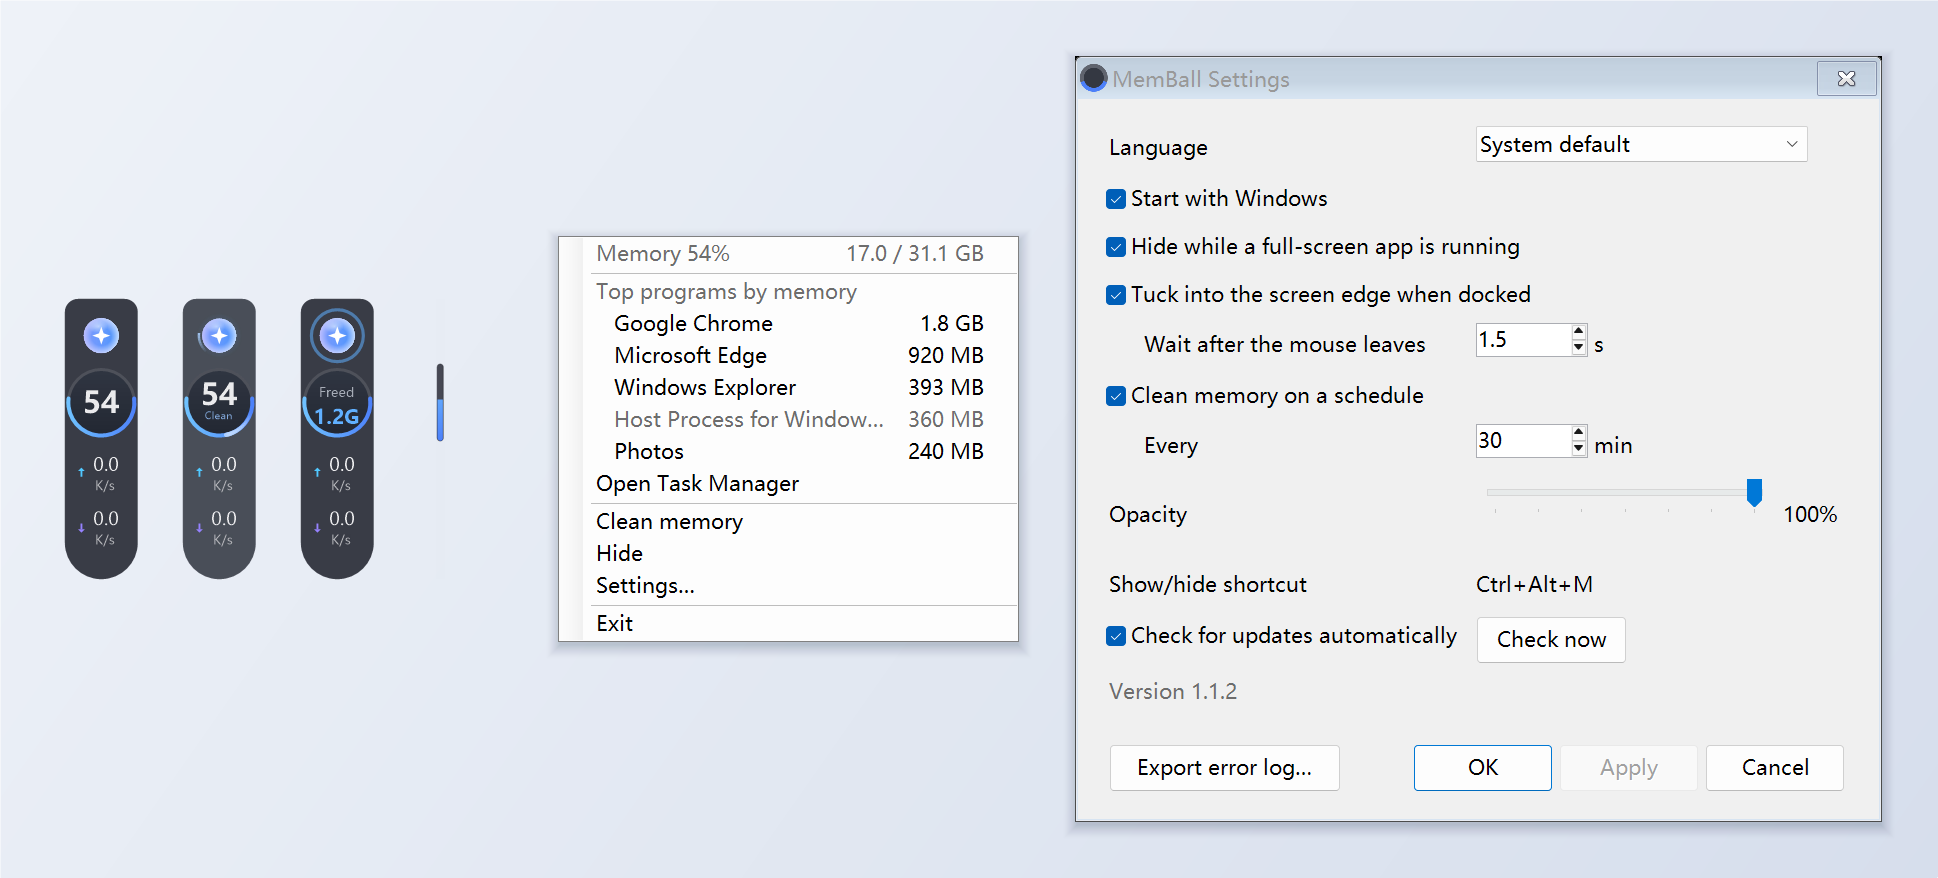
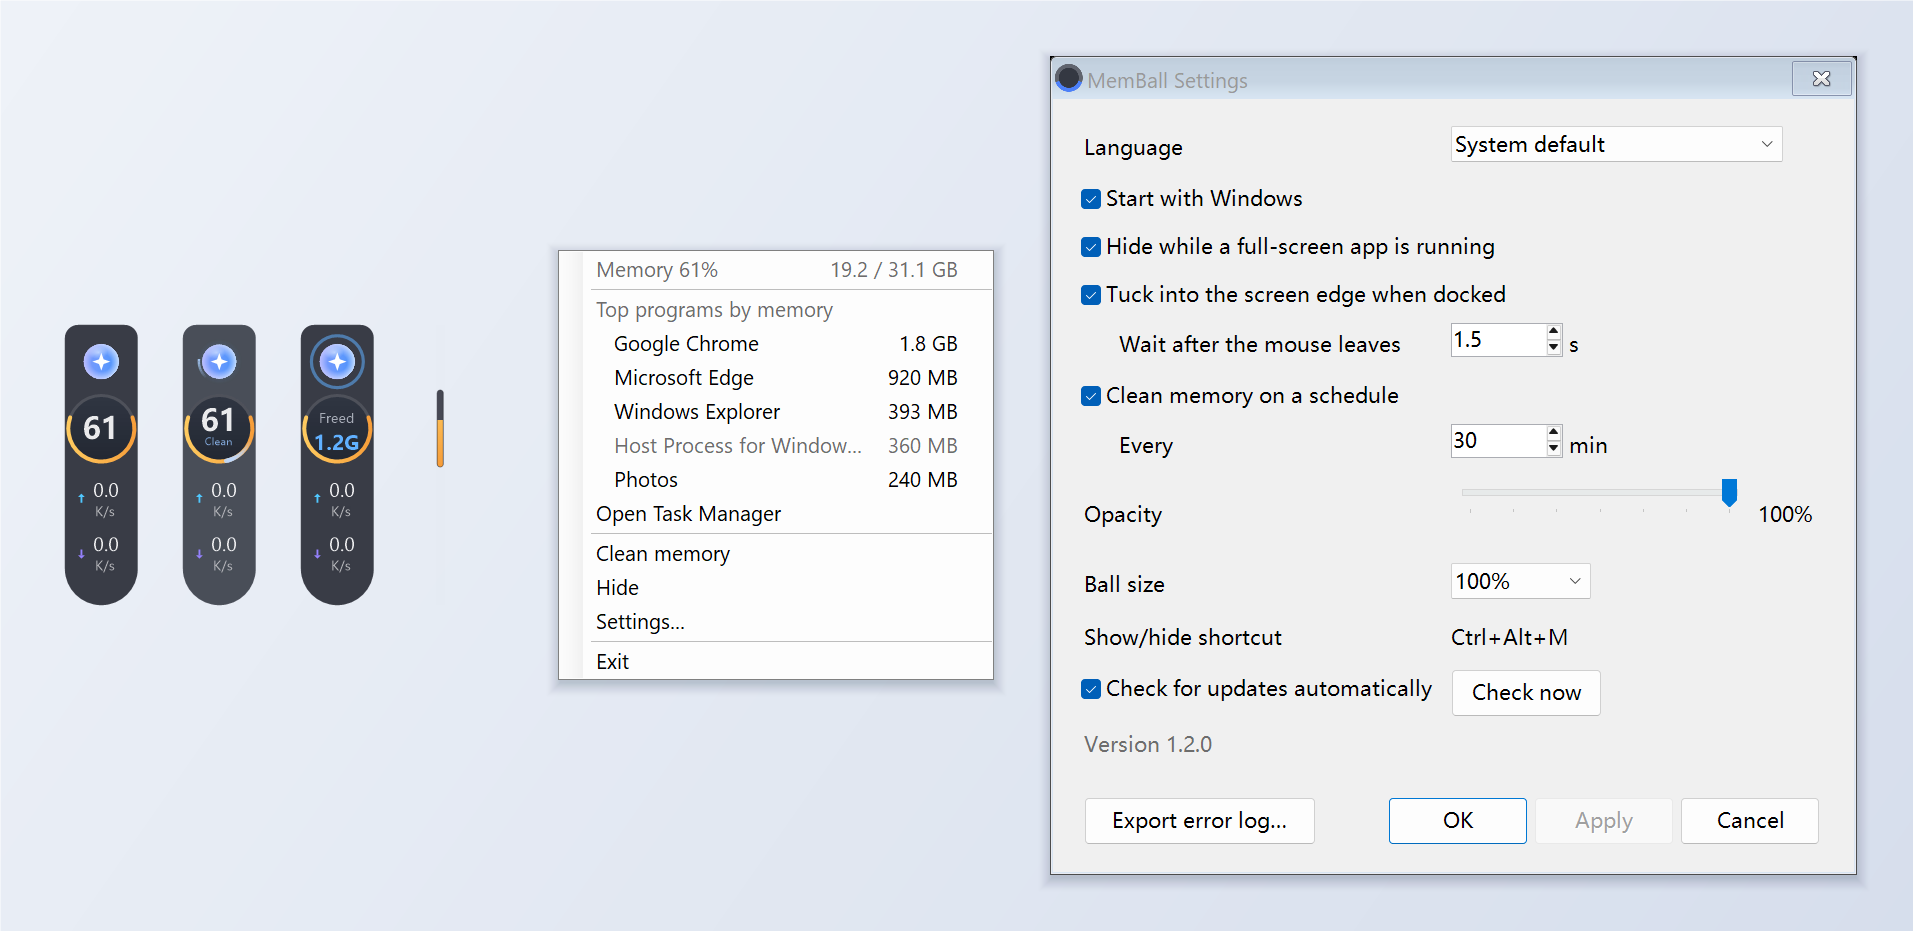
README: ball size and portable data folder

diff --git a/README.fr.md b/README.fr.md
@@ -20,7 +20,7 @@ MemBall a été créé avec [Claude Code](https://claude.com/claude-code) : le c
 - **Masquée en plein écran** : elle s'efface quand un jeu, une vidéo ou une autre application en plein écran est au premier plan
 - **Menu du clic droit** : mémoire en Go, les cinq programmes qui utilisent le plus de mémoire (que vous pouvez arrêter depuis le menu), Gestionnaire des tâches
 - **Icône de la zone de notification** : affiche la mémoire utilisée ; double-cliquez dessus pour masquer ou afficher la boule
-- **Paramètres** : langue (English / 简体中文 / Français), lancement au démarrage de Windows, masquage en plein écran, rentrée dans le bord, nettoyage programmé, opacité, recherche automatique des mises à jour
+- **Paramètres** : langue (English / 简体中文 / Français), lancement au démarrage de Windows, masquage en plein écran, rentrée dans le bord, nettoyage programmé, opacité, taille de la boule (100–200 %), recherche automatique des mises à jour
 - **Mises à jour** : vous prévient quand une nouvelle version sort et se met à jour en un clic après confirmation
 
 ## Téléchargement et installation
@@ -30,7 +30,7 @@ Téléchargez la dernière version depuis la page [Releases](https://github.com/
 | Fichier | Description |
 |---|---|
 | `MemBall-Setup.exe` | Installation : installe dans `C:\Program Files\MemBall` avec un raccourci dans le menu Démarrer ; désinstallation depuis Paramètres → Applications |
-| `MemBall.exe` | Version portable : placez-la où vous voulez et double-cliquez dessus |
+| `MemBall.exe` | Version portable : placez-la où vous voulez et double-cliquez dessus ; ses paramètres et journaux vont dans un dossier `MemBall-data` à côté d'elle, vous pouvez donc l'emporter sur une clé USB |
 
 Configuration requise : Windows 10 ou 11 (le .NET Framework 4.8 nécessaire fait déjà partie de Windows).
 
@@ -69,12 +69,12 @@ Par conséquent :
 
 ## Confidentialité
 
-MemBall ne collecte et n'envoie aucune donnée. Son seul accès réseau est la recherche de mises à jour : au plus une fois par jour, il lit le dernier numéro de version sur l'API publique de GitHub (désactivable dans les Paramètres). Les paramètres et les journaux d'erreurs restent sur votre PC, dans `%LOCALAPPDATA%\MemBall`.
+MemBall ne collecte et n'envoie aucune donnée. Son seul accès réseau est la recherche de mises à jour : au plus une fois par jour, il lit le dernier numéro de version sur l'API publique de GitHub (désactivable dans les Paramètres). Les paramètres et les journaux d'erreurs restent sur votre PC : dans `%LOCALAPPDATA%\MemBall` pour la version installée, dans `MemBall-data` à côté de `MemBall.exe` pour la version portable.
 
 ## Désinstallation
 
 - Version installée : Paramètres → Applications → MemBall → Désinstaller ; vous pouvez aussi supprimer vos paramètres et journaux
-- Version portable : désactivez « Lancer au démarrage de Windows » dans les Paramètres, quittez MemBall, puis supprimez `MemBall.exe`
+- Version portable : désactivez « Lancer au démarrage de Windows » dans les Paramètres, quittez MemBall, puis supprimez `MemBall.exe` et le dossier `MemBall-data` à côté
 
 ## Compiler soi-même
 

diff --git a/README.md b/README.md
@@ -20,7 +20,7 @@ MemBall was built with [Claude Code](https://claude.com/claude-code): the code, 
 - **Hides for full screen**: fades out while a game, video or other full-screen app is in front
 - **Right-click menu**: memory in GB, the five programs using the most memory (which you can end from there), Task Manager
 - **Tray icon**: shows memory use; double-click it to hide or show the ball
-- **Settings**: language (English / 简体中文 / Français), start with Windows, hide for full screen, edge tucking, scheduled cleaning, opacity, automatic update check
+- **Settings**: language (English / 简体中文 / Français), start with Windows, hide for full screen, edge tucking, scheduled cleaning, opacity, ball size (100–200%), automatic update check
 - **Updates**: tells you when a new version is out and updates in one click after you confirm
 
 ## Download and install
@@ -30,7 +30,7 @@ Download the latest version from the [Releases](https://github.com/yydsyin/memba
 | File | What it is |
 |---|---|
 | `MemBall-Setup.exe` | Installer: installs to `C:\Program Files\MemBall` with a Start menu shortcut; uninstall it from Settings → Apps |
-| `MemBall.exe` | Portable: put it anywhere and double-click it |
+| `MemBall.exe` | Portable: put it anywhere and double-click it; its settings and logs go in a `MemBall-data` folder next to it, so you can carry it on a USB drive |
 
 Requirements: Windows 10 or 11 (the .NET Framework 4.8 it needs is already part of Windows).
 
@@ -69,12 +69,12 @@ So:
 
 ## Privacy
 
-MemBall collects and sends no data. Its only network access is the update check: at most once a day it reads the latest version number from GitHub's public API (you can turn this off in Settings). Settings and error logs stay on your PC in `%LOCALAPPDATA%\MemBall`.
+MemBall collects and sends no data. Its only network access is the update check: at most once a day it reads the latest version number from GitHub's public API (you can turn this off in Settings). Settings and error logs stay on your PC: in `%LOCALAPPDATA%\MemBall` for the installed version, in `MemBall-data` next to `MemBall.exe` for the portable one.
 
 ## Uninstall
 
 - Installer version: Settings → Apps → MemBall → Uninstall; you can choose to delete your settings and logs as well
-- Portable version: turn off "Start with Windows" in Settings, exit MemBall, then delete `MemBall.exe`
+- Portable version: turn off "Start with Windows" in Settings, exit MemBall, then delete `MemBall.exe` and the `MemBall-data` folder next to it
 
 ## Build from source
 
